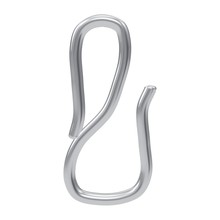
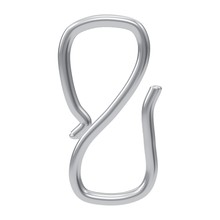
Add files via upload

Changed region(s): [[0.2455, 0.0545, 0.7364, 0.9545], [0.4364, 0.0818, 0.4636, 0.1091]]

diff --git a/index.html b/index.html
@@ -4460,7 +4460,8 @@ const C3D_PAGES = { cfg: 'configurateur-3d.html?apercu=1', m3d: 'editeur-perles.
 let MODELES_3D=[], RUPTURES_3D=[], COMPOS_3D=[], LIENS_3D={};
 async function renderModelesProposes(){
   const el=document.getElementById('c3-proposes'); if(!el) return;
-  try{ const {data,error}=await SB.from('modeles_3d').select('slug,nom,publie').order('nom'); if(error) throw error; MODELES_3D=data||[];
+  try{ if(OFFRES_CFG===null) await chargerOffresCfg();
+    const {data,error}=await SB.from('modeles_3d').select('slug,nom,publie,donnees').order('nom'); if(error) throw error; MODELES_3D=data||[];
     const r=await SB.from('config').select('value').eq('key','configurateur_ruptures').maybeSingle(); let v=r.data?.value;
     if(typeof v==='string'){ try{ v=JSON.parse(v); }catch(e){ v=[]; } } RUPTURES_3D=Array.isArray(v)?v.map(String):[];
     { const lc=async k=>{ const r=await SB.from('config').select('value').eq('key',k).maybeSingle(); let w=r.data?.value; if(typeof w==='string'){ try{ w=JSON.parse(w); }catch(e){ w=null; } } return w; };
@@ -4508,26 +4509,26 @@ function rendreC3(){
   let corps='';
   if(C3_ONGLET==='breloques'){
     corps=`<p class="dim c3-aide">Les modèles 3D proposés au client, dans chaque parcours (breloque seule / bundle). Un modèle se publie dans 🧊 Modèles.</p>`
-      +(MODELES_3D.length?MODELES_3D.map(m=>c3Ligne(escA(m.nom||m.slug),c3Inter(vuM(m,'breloque'),`basculerModele('${escA(m.slug)}','breloque')`,'breloque seule')+c3Inter(vuM(m,'bundle'),`basculerModele('${escA(m.slug)}','bundle')`,'bundle + chaîne de sac'),{sous:m.publie?'':'non publié'})).join(''):'<p class="dim">Aucun modèle 3D enregistré (onglet 🧊 Modèles) : le configurateur montre les modèles d\'exemple.</p>')
+      +(MODELES_3D.length?MODELES_3D.map(m=>c3Ligne((nomsAff()['modele:'+m.slug]?`<b>${escA(nomsAff()['modele:'+m.slug])}</b> <span class="dim">(${escA(m.nom||m.slug)})</span>`:escA(m.nom||m.slug))+` <button class="btn btn-xs btn-ghost" title="Nom affiché aux clientes" onclick="renommerAffiche('modele:${escA(m.slug)}','${escA(String(m.nom||m.slug).replace(/'/g,'’'))}')">✎</button>`,c3Inter(vuM(m,'breloque'),`basculerModele('${escA(m.slug)}','breloque')`,'breloque seule')+c3Inter(vuM(m,'bundle'),`basculerModele('${escA(m.slug)}','bundle')`,'bundle + chaîne de sac'),{sous:m.publie?'':'non publié'})).join(''):'<p class="dim">Aucun modèle 3D enregistré (onglet 🧊 Modèles) : le configurateur montre les modèles d\'exemple.</p>')
       +(()=>{ // formes de la breloque chainmail = exactement celles du configurateur : croix, mini chains, tes compositions « breloque » (pas les chaînes, pas les BO)
           const ficheDe=f=>{ const r=LIENS_3D['forme:'+f]; const b=r&&BIJS.find(x=>x.ref===r); return b?nomFiche3(b)+' · '+b.ref+(b.collection?' — '+b.collection:''):'pas encore de fiche reliée'; };
           const cps=COMPOS_3D.filter(c=>c.usage==='breloque'&&c.statut!=='brouillon');
           const n3=c=>norm3(c.nom||''), estMC=c=>/mini ?cha/.test(n3(c));
           // tes compositions remplacent les formes d'origine (comme dans le configurateur) : croix pampille → plus de « Croix » seule, etc.
           const remplace={croix:cps.some(c=>/croix/.test(n3(c))||(c.motif||[]).some(e=>e&&e.f==='croix')),'mini-fleur-4':cps.some(c=>estMC(c)&&/fleur/.test(n3(c).replace(/mini ?cha\w*/,''))&&!/mini fleur/.test(n3(c).replace(/mini ?cha\w*/,''))),'mini-intercalaire-4':cps.some(c=>estMC(c)&&/intercal|altern/.test(n3(c)))};
-          const L=[...FORMES_3D.filter(([f])=>!remplace[f]).map(([f,nom])=>({k:'forme:'+f,nom,grp:/^mini/.test(f)?'Mini chain':'Formes',sous:ficheDe(f)})),...cps.map(c=>({k:'forme:compo-'+c.id,nom:c.nom,grp:estMC(c)?'Mini chain':'Formes',sous:ficheDe('compo-'+c.id)}))];
+          const L=[...FORMES_3D.filter(([f])=>!remplace[f]).map(([f,nom])=>({rk:LIENS_3D['forme:'+f]||'',k:'forme:'+f,nom,grp:/^mini/.test(f)?'Mini chain':'Formes',sous:ficheDe(f)})),...cps.map(c=>({rk:LIENS_3D['forme:compo-'+c.id]||'',k:'forme:compo-'+c.id,nom:c.nom,grp:estMC(c)?'Mini chain':'Formes',sous:ficheDe('compo-'+c.id)}))];
           return c3Liste('formes','⛓ Breloque chainmail · formes',L,{aide:'La croix, les mini chains et tes compositions « breloque » validées dans ⛓ Composer. Jamais les chaînes de sac ni les boucles d\'oreilles.'}); })()
       +`<p class="dim c3-aide">La fiche produit de chaque modèle / forme se relie dans 🔗 Références › Produits ↔ modèles 3D.</p>`;
   } else if(C3_ONGLET==='idees'){
-    const L=[...D.fam.flatMap(f=>[f.base,...f.vars].map(b=>({cat:b.collection||f.base.collection||'',k:'idee:'+b.id,nom:b===f.base?(b.variante||'fiche de base'):(b.variante||b.nom||b.ref),sous:b.ref,grp:f.base.nom||f.base.ref,extra:c3Lien(b.id)}))),
+    const L=[...D.fam.flatMap(f=>[f.base,...f.vars].map(b=>({rk:b.ref,cat:b.collection||f.base.collection||'',k:'idee:'+b.id,nom:b===f.base?(b.variante||'fiche de base'):(b.variante||b.nom||b.ref),sous:b.ref,grp:f.base.nom||f.base.ref,extra:c3Lien(b.id)}))),
       ...altI.map(a=>({k:'idee:alt:'+a.id,nom:a.nom,sous:'alternative',grp:'⭐ Alternatives (créées dans le configurateur)',extra:c3Lien('alt:'+a.id)+`<button class="btn btn-xs btn-ghost" title="Renommer" onclick="renommerAlternative('${escA(a.id)}')">✎</button>`}))];
     corps=c3Liste('idees','💡 Idées de couleurs proposées',L,{aide:'Sous chaque modèle, les variantes de couleurs proposées en vignettes. Une idée retirée reste reconnue si la cliente choisit ces couleurs.'});
   } else if(C3_ONGLET==='bundles'){
-    const L=[...D.lotsBase.flatMap(b=>[b,...D.varsLot(b)].map(x=>({cat:x.collection||b.collection||'',k:'idee:'+x.id,nom:x===b?(b.variante?'Lot · '+b.variante:'Lot de base'):'Variante · '+(x.variante||x.nom||x.ref),sous:x.ref,grp:b.nom||b.ref,extra:c3Lien(x.id,1)}))),
+    const L=[...D.lotsBase.flatMap(b=>[b,...D.varsLot(b)].map(x=>({rk:x.ref,cat:x.collection||b.collection||'',k:'idee:'+x.id,nom:x===b?(b.variante?'Lot · '+b.variante:'Lot de base'):'Variante · '+(x.variante||x.nom||x.ref),sous:x.ref,grp:b.nom||b.ref,extra:c3Lien(x.id,1)}))),
       ...altB.map(a=>({k:'idee:alt:'+a.id,nom:a.nom,sous:'créé dans le configurateur',grp:'⭐ Bundles créés dans le configurateur',extra:c3Lien('alt:'+a.id,1)+`<button class="btn btn-xs btn-ghost" title="Renommer" onclick="renommerAlternative('${escA(a.id)}')">✎</button>`}))];
     corps=c3Liste('bundles','🎁 Bundles tout prêts proposés',L,{aide:'Les porte-clés tout prêts (lots) et chacune de leurs variantes, en vignettes en haut de la page bundle.'});
   } else if(C3_ONGLET==='chaines'){
-    const L=D.chaines.flatMap(b=>[b,...D.varsCh(b)].filter(D.proposee).map(x=>({cat:x.collection||b.collection||'',k:'idee:'+x.id,nom:x===b?'Fiche de base':(x.variante||x.nom||x.ref),sous:x.ref,grp:nomFiche3(b)})));
+    const L=D.chaines.flatMap(b=>[b,...D.varsCh(b)].filter(D.proposee).map(x=>({rk:x.ref,cat:x.collection||b.collection||'',k:'idee:'+x.id,nom:x===b?'Fiche de base':(x.variante||x.nom||x.ref),sous:x.ref,grp:nomFiche3(b)})));
     corps=c3Ligne('<b>3e parcours « Chaîne de sac »</b>',c3Inter(RUPTURES_3D.includes('activer:chaine'),'basculerChaine()'))
       +c3Liste('chaines','⛓ Chaînes de sac proposées',L,{aide:'Le motif 3D vient du nom de la fiche (8 mm, 10 mm, fleur, alternative). Les variantes collier / choker ne sont pas proposées.'});
   } else corps=renderOffres();
@@ -4539,12 +4540,20 @@ function rendreC3(){
 function c3Liste(id,titre,items,{aide='',vide='Rien d\'affiché pour l\'instant : ajoute une référence ci-dessous.'}={}){
   const vis=items.filter(x=>c3Vu(x.k)&&c3Filtre([x.nom,x.sous,x.grp].join(' '))), cach=items.filter(x=>!c3Vu(x.k));
   const groupes=[...new Set(vis.map(x=>x.grp||''))];
-  const ligne=x=>`<div class="c3l-r"><span class="nom">${escA(x.nom)}${x.sous?` <span class="dim">· ${escA(x.sous)}</span>`:''}${x.cat?` <span class="badge" style="font-size:10px">${escA(x.cat)}</span>`:''}</span>${x.extra||''}<button class="btn btn-xs btn-ghost" title="Ne plus proposer dans le configurateur" onclick="basculerCle('${escA(x.k)}')">🚫 Retirer</button></div>`;
+  const ligne=x=>`<div class="c3l-r"><span class="nom">${x.rk&&nomsAff()[x.rk]?`<b>${escA(nomsAff()[x.rk])}</b> <span class="dim">(${escA(x.nom)})</span>`:escA(x.nom)}${x.sous?` <span class="dim">· ${escA(x.sous)}</span>`:''}${x.cat?` <span class="badge" style="font-size:10px">${escA(x.cat)}</span>`:''}</span>${x.rk?`<button class="btn btn-xs btn-ghost" title="Nom affiché aux clientes (la référence et les liens ne changent pas)" onclick="renommerAffiche('${escA(x.rk)}','${escA(String(x.nom).replace(/'/g,'’'))}')">✎</button>`:''}${x.extra||''}<button class="btn btn-xs btn-ghost" title="Ne plus proposer dans le configurateur" onclick="basculerCle('${escA(x.k)}')">🚫 Retirer</button></div>`;
   const opts=[...new Set(cach.map(x=>x.grp||''))].map(g=>`<optgroup label="${escA(g||'Autres')}">${cach.filter(x=>(x.grp||'')===g).map(x=>`<option value="${escA(x.k)}">${escA(x.nom)}${x.sous?' · '+escA(x.sous):''}${x.cat?' — '+escA(x.cat):''}</option>`).join('')}</optgroup>`).join('');
   return `<div class="c3l-sec"><h3>${titre} <span class="dim">${vis.length} affiché${vis.length>1?'s':''}${cach.length?' · '+cach.length+' masqué'+(cach.length>1?'s':''):''}</span></h3>${aide?`<p class="dim c3-aide" style="margin:0 0 4px">${aide}</p>`:''}
     ${groupes.map(g=>(g?`<div class="c3l-g">${escA(g)}</div>`:'')+vis.filter(x=>(x.grp||'')===g).map(ligne).join('')).join('')||`<p class="dim" style="font-size:12px;margin:4px 0">${vide}</p>`}
     <div class="c3l-aj">${cach.length?`<select id="aj-${id}"><option value="">＋ Afficher une référence masquée ou nouvelle…</option>${opts}</select><button class="btn btn-xs btn-p" onclick="const v=document.getElementById('aj-${id}').value;if(v)basculerCle(v)">Afficher</button>`:'<span class="dim" style="font-size:12px">Toutes les références sont affichées.</span>'}
       <button class="btn btn-xs btn-ghost" title="Relire les fiches (nouveaux produits créés ailleurs)" onclick="c3Actualiser()">↻ Actualiser les fiches</button></div></div>`;
+}
+/* ✎ noms affichés aux clientes : config « configurateur_offres ».noms = { <réf. de la fiche ou du matériau> | modele:<slug> | acc:<id du porte-clés> : nom } */
+const nomsAff=()=>OFFRES_CFG?.noms||{};
+async function renommerAffiche(cle,defaut){
+  if(OFFRES_CFG===null) await chargerOffresCfg();
+  const v=prompt('Nom affiché aux clientes (vide = nom d\'origine « '+defaut+' ») :',nomsAff()[cle]||''); if(v===null) return;
+  const noms={...nomsAff()}; if(v.trim()) noms[cle]=v.trim(); else delete noms[cle];
+  const cfg={...(OFFRES_CFG||{}),noms}; await sbUpsertConfig('configurateur_offres',cfg); OFFRES_CFG=cfg; toast(v.trim()?'Nom affiché : « '+v.trim()+' » ✓':'Nom d\'origine remis','ok'); renderModelesProposes(); rafraichirApercu();
 }
 async function basculerCle(k){
   const rup=RUPTURES_3D.includes(k)?RUPTURES_3D.filter(x=>x!==k):[...RUPTURES_3D,k];
@@ -4578,6 +4587,13 @@ function renderOffres(){
     ${carte('rond','🔘 Fermoir rond offert',`Offert dès ${num('rond','min',48)} breloques à ${num('rond','prixMin')} € ou plus · remise de ${num('rond','remise')} €`,'porte-clés')}
     ${carte('mousqueton','🪝 Mousqueton offert',`Offert dès ${num('mousqueton','minBundles',48)} porte-clés (n'importe lesquels) montés dessus et ${num('mousqueton','minAchat')} € de breloques (porte-clés non compris) · remise ${num('mousqueton','remise')} € <span class="dim">(vide = offert)</span>`,'porte-clés, non cumulable avec le rond')}
     ${carte('lettres','🔤 Breloque lettre offerte',`Une breloque lettre offerte dès ${num('lettres','min',48)} breloques à ${num('lettres','prixMin')} € ou plus`,'une par commande, cumulable')}
+    <div class="of-carte"><div class="of-hd"><b>✏ Noms affichés aux clientes</b></div>
+      <div class="of-phrase" style="display:grid;gap:4px">${(()=>{ const acc=[], vus=new Set(); MODELES_3D.forEach(m=>(m.donnees?.options||[]).filter(o=>o.type==='accroche').forEach(o=>(o.choix||[]).forEach(c=>{ if(!vus.has(c.id)){ vus.add(c.id); acc.push(c); } })));
+        const fer=MATS.filter(m=>/fermoir|mousqueton|manille|ressort/i.test([m.designation,m.variante,m.sc].join(' ')));
+        const ligne=(cle,nom,sous)=>`<div style="display:flex;gap:6px;align-items:center"><span style="flex:1">${nomsAff()[cle]?`<b>${escA(nomsAff()[cle])}</b> <span class="dim">(${escA(nom)})</span>`:escA(nom)} <span class="dim">· ${escA(sous)}</span></span><button class="btn btn-xs btn-ghost" onclick="renommerAffiche('${escA(cle)}','${escA(String(nom).replace(/'/g,'’'))}')">✎</button></div>`;
+        return (acc.length?'<div class="dim" style="font-weight:700">Porte-clés (choix du bundle)</div>'+acc.map(c=>ligne('acc:'+c.id,c.libelle||c.id,'porte-clés')).join(''):'')
+          +(fer.length?'<div class="dim" style="font-weight:700;margin-top:4px">Fermoirs et porte-clés (matériaux)</div>'+fer.map(m=>ligne(m.ref,[m.designation,m.variante].filter(Boolean).join(' · '),m.ref)).join(''):''); })()}</div>
+      <div class="of-pied"><span class="dim">Seul le nom vu par la cliente change : la référence, le stock et les liens restent les mêmes. Les breloques, idées, bundles, chaînes et formes se renomment avec ✎ dans leur onglet.</span></div></div>
     <div class="of-carte"><div class="of-hd"><b>🎨 Fond de l'aperçu 3D</b></div>
       <div class="of-phrase">${(()=>{ const ap=OFFRES_CFG?.apparence||{}, f=({jaune:'creme'})[ap.fond]||ap.fond||'violet', op=+ap.logo===100?100:30;
         return [['creme','#fff7c6','#3c114b','Crème · logo violet'],['violet','#3c114b','#fff7c6','Violet · logo jaune'],['vert','#cbc67c','#a7365b','Vert · logo framboise'],['rose','#a7365b','#fff7c6','Framboise · logo jaune']]

diff --git a/configurateur/configurateur-3d.html b/configurateur/configurateur-3d.html
@@ -506,7 +506,7 @@ import {
   correspondCategorie, texteCatalogue, ordreModeles, chargerRuptures, appliquerRuptures,
   chargerLiens, appliquerLiens, relierModele, chargerMateriauxParRefs,
   chargerFichesConfig, chargerOffres, definirLiensFormes, lienModele, appliquerLienModele, formeLiee, composerCompos, definirFichesConfig, ficheCfg, refsCouleurFiche, famillesFiche,
-} from './bead-core.js?v=a5160576';
+} from './bead-core.js?v=d2bac14c';
 import { SUPABASE_URL, SUPABASE_ANON_KEY, supabaseConfigure, INFOS_ATELIER, PANIER_SHOPIFY } from './perles-config.js?v=e8e44d9a';
 
 const $ = s => document.querySelector(s);
@@ -595,6 +595,11 @@ if (sb) {
   }
 }
 definirLiensFixes(liens);
+/* noms affichés aux clientes (app › Conception 3D : ✎ sur chaque ligne) : seul le nom change, jamais la référence ni le lien */
+const NOMS = (offresCfg?.noms && typeof offresCfg.noms === 'object') ? offresCfg.noms : {};
+const nomAffiche = (cle, defaut) => (NOMS[cle] && String(NOMS[cle]).trim()) || defaut;
+catalogue = catalogue.map(c => NOMS[c.ref] ? { ...c, nom: NOMS[c.ref], nomOrigine: c.nom } : c);
+fermoirs = fermoirs.map(f => NOMS[f.ref] ? { ...f, nomClient: NOMS[f.ref], nom: NOMS[f.ref] } : f);
 if (!modeles.length) modeles = [modeleDemo(), modeleAreteDemo(), modeleLettresDemo(), modeleArgileDemo(), modeleChainmailDemo(), modelePerleCultureDemo()];
 // 3e parcours « Chaîne de sac » : allumé dans l'app (Conception 3D) ; modèle d'exemple tant que tu n'en as pas publié
 const CHAINE_ACTIVE = ruptures.includes('activer:chaine');
@@ -617,6 +622,8 @@ const aDesEtoiles = catalogue.some(c => texteCatalogue(c).includes('etoile'));
 modeles.sort(ordreModeles);                                    // le petit poisson en premier
 modeles = modeles.map(m0 => {
   const m = resoudreDefauts(relierModele(m0, liens), catalogue, fermoirs);
+  if (NOMS['modele:' + m.slug]) m.nom = NOMS['modele:' + m.slug];
+  for (const o of m.options || []) if (o.type === 'accroche') (o.choix || []).forEach(c => { if (NOMS['acc:' + c.id]) c.libelle = NOMS['acc:' + c.id]; });
   // breloque lettre : l'étoile du milieu est comprise dans le prix de la fiche « 2 mots » (on choisit sa couleur, sans supplément)
   if (estLettres(m)) for (const o of m.options || []) if (o.type === 'perle' && o.place === 'texte') { o.supplement = 0; (o.choix || []).forEach(c => { if (c && typeof c === 'object') c.supplement = 0; }); }
   // étoile dans la bouche proposée par défaut si le modèle publié ne la prévoit pas
@@ -953,7 +960,7 @@ function choisirParcours(p, garder = false) {
   $('#page').scrollIntoView({ behavior: 'smooth', block: 'start' });
 }
 document.querySelectorAll('[data-parcours]').forEach(b => b.addEventListener('click', () => choisirParcours(b.dataset.parcours)));
-$('#btParcours').addEventListener('click', () => { etat.parcours = null; etat.breloques = [brel()]; etat.actif = 0; etat.accroche = null; rendre3D({ cadrer: true }); toutRendre(); });
+$('#btParcours').addEventListener('click', () => { etat.parcours = null; etat.breloques = [brel()]; etat.actif = 0; etat.accroche = null; etat.compos = [{ surChaine: false }]; etat.mousq = false; delete etat.breloques[0].compo; rendre3D({ cadrer: true }); toutRendre(); });
 $('#btVersBundle').addEventListener('click', () => choisirParcours('bundle'));
 $('#btVersChaine').addEventListener('click', () => choisirParcours('chaine', true));
 $('#btAltBundle').addEventListener('click', () => enregistrerAlternative(true));
@@ -1228,7 +1235,7 @@ function calculerIdees(m) {
     const z = (m.zones || []).find(x => x.id === m.bijZone);
     return z ? couleursProposees(z, catalogue, parties).filter(c => c.enStock !== false && bijoux.some(b => b.ref === c.ref)).map(c => {
       const f = bijoux.find(b => b.ref === c.ref);
-      return { fiche: f, nom: [f.nom, f.variante].filter(Boolean).join(' · '), prix: f.pv != null && f.pv !== '' ? +f.pv : null,
+      return { fiche: f, nom: nomAffiche(f.ref, [f.nom, f.variante].filter(Boolean).join(' · ')), prix: f.pv != null && f.pv !== '' ? +f.pv : null,
         breloque: { ...nouvelleBreloque(m.slug), couleurs: validerConfiguration(m, catalogue, { ...nouvelleBreloque(m.slug).couleurs, [m.bijZone]: c.ref }, parties) } };
     }) : [];
   }
@@ -1237,7 +1244,7 @@ function calculerIdees(m) {
   return [...famillesFiche(row, bijoux).map(f => {                                    // fiches bijoux et compositions
     const c = couleursDeFiche(m, row, f); if (!c) return null;
     if (f.id !== row.id && memeCouleurs(c, classique)) return null;                // variante qu'on ne sait pas encore dessiner
-    return { fiche: f, nom: f.variante || (f.id === row.id ? 'Classique' : f.nom), prix: f.pv != null && f.pv !== '' ? +f.pv : (row.pv != null ? +row.pv : null),
+    return { fiche: f, nom: nomAffiche(f.ref, f.variante || (f.id === row.id ? 'Classique' : f.nom)), prix: f.pv != null && f.pv !== '' ? +f.pv : (row.pv != null ? +row.pv : null),
       breloque: { ...nouvelleBreloque(m.slug), couleurs: c } };
   }).filter(Boolean), ...alternativesDe(m, row)];
 }
@@ -1290,7 +1297,7 @@ function ideesBundle() {
   const pc = bijoux.filter(b => okLot(b) && /porte.?cl/i.test(normNom(colDe(b))));
   return (pc.length ? pc : bijoux.filter(okLot)).map(f => {
     const cfg = ficheCfg(f.id), refs = cfg.refs || [], par = f.parent_id && parId.get(f.parent_id);
-    const nom = par ? [par.nom, f.variante].filter(Boolean).join(' · ') : (f.nom || f.variante || f.ref);   // une variante de lot : « Mix'n Match · rose »
+    const nom = nomAffiche(f.ref, par ? [par.nom, f.variante].filter(Boolean).join(' · ') : (f.nom || f.variante || f.ref));   // une variante de lot : « Mix'n Match · rose » (ou le nom affiché choisi)
     const aRef = r => refs.includes(r) || refs.some(x => baseRef(x) === baseRef(r));
     const acc = accroches.choix.filter(c => c.pieces.length && c.pieces.every(aRef)).sort((a, b) => b.pieces.length - a.pieces.length)[0] || accroches.choix[0];
     const brs = [], sans = [];
@@ -1699,7 +1706,9 @@ function restaurer(c) {
   });
   etat.parcours = c.parcours === 'bundle' || etat.breloques.length > 1 || c.accroche ? 'bundle' : 'breloque';
   etat.accroche = c.accroche?.id && accroches?.choix.some(x => x.id === c.accroche.id) ? c.accroche.id : (etat.parcours === 'bundle' ? (choixOffre() || accroches?.choix[0])?.id || null : null);
-  etat.compos = Array.isArray(c.compos) && c.compos.length ? c.compos.map((x, k) => ({ ...(k ? { accroche: x.accroche } : {}), surChaine: !!x.surChaine })) : [{ surChaine: false }];
+  // plusieurs porte-clés repris seulement si la composition enregistrée les avait montés « sur un mousqueton » ; sinon on repart d'un seul porte-clés
+  etat.compos = c.mousqueton && Array.isArray(c.compos) && c.compos.length ? c.compos.map((x, k) => ({ ...(k ? { accroche: x.accroche } : {}), surChaine: !!x.surChaine })) : [{ surChaine: !!c.compos?.[0]?.surChaine }];
+  if (!c.mousqueton) etat.breloques.forEach(b => { delete b.compo; });
   etat.mousq = !!c.mousqueton; etat.offreChoix = c.offreChoix || null;
   etat.actif = Math.min(c.actif || 0, etat.breloques.length - 1);
   rendre3D({ cadrer: true }); toutRendre();
@@ -1915,7 +1924,7 @@ async function reprendre(cle) {
 }
 function recommencer() {
   try { localStorage.removeItem('bn-perso-brouillon'); } catch {}
-  etat.parcours = null; etat.breloques = [breloqueOuverture(modeles[0].slug)]; etat.actif = 0; etat.accroche = null;
+  etat.parcours = null; etat.breloques = [breloqueOuverture(modeles[0].slug)]; etat.actif = 0; etat.accroche = null; etat.compos = [{ surChaine: false }]; etat.mousq = false; etat.offreChoix = null;
   $('#reprise').hidden = true; rendre3D({ cadrer: true }); toutRendre();
 }
 

diff --git a/configurateur/bead-core.js b/configurateur/bead-core.js
@@ -1674,8 +1674,10 @@ function geosFermoirS(H) {
   const B = [[-0.23, 0.33], [-0.31, 0.21], [-0.31, 0.11], [-0.24, 0.035], [-0.04, 0.005], [0.18, 0.015], [0.33, 0.06], [0.40, 0.16], [0.38, 0.33], [0.36, 0.52], [0.43, 0.63]];
   const sym = ([y, h]) => [-y, 1 - h];
   // boucle du haut : même forme, tournée, plus serrée (largeur × 0,62) : sa jambe passe contre la diagonale (fermée) et son bout s'écarte vers l'extérieur comme celui du bas
-  const haut = B.map(sym).reverse().map(([y, h]) => [y * 0.62, h]);
-  const P = [...haut, [0.04, 0.51], ...B];
+  // boucle du haut : exactement la boucle du bas tournée d'un demi-tour (même taille, symétrique) ; seule sa jambe revient
+  // contre la diagonale pour fermer, et son petit bout ressort vers l'extérieur
+  const haut = B.map(sym).reverse();                                     // [bout, jambe…, haut de la boucle…, départ de la diagonale]
+  const P = [[-0.31, 0.37], [-0.21, 0.44], [-0.31, 0.53], ...haut.slice(2), [0.04, 0.51], ...B];
   const c = new THREE.CatmullRomCurve3(P.map(([y, h]) => new THREE.Vector3(0, -y * W, -h * H)), false, 'centripetal');   // -y : vu comme sur la photo
   const g = [new THREE.TubeGeometry(c, 260, r, 10, false)];
   for (const [y, h] of [P[0], P[P.length - 1]]) { const e = new THREE.SphereGeometry(r, 10, 8); e.scale(1, 1, 0.6); e.translate(0, -y * W, -h * H); g.push(e); }

diff --git a/configurateur/commandes-perso.html b/configurateur/commandes-perso.html
@@ -114,7 +114,7 @@ td.ref { font: 600 9.5pt var(--f-titre); white-space: nowrap; }
 
 <script type="module">
 import { lignesCommande, lignesCommandeBundle, construireLettres, estLettres, listerDemandes, majDemande, chargerModeleBoutique, chargerCatalogueBoutique,
-         chargerFermoirsBoutique, resoudreDefauts, modeleDemo, chargerBijouxBoutique, bijouBreloque, completerCatalogue, chargerLiens, definirLiensFormes, appliquerLienModele } from './bead-core.js?v=a5160576';
+         chargerFermoirsBoutique, resoudreDefauts, modeleDemo, chargerBijouxBoutique, bijouBreloque, completerCatalogue, chargerLiens, definirLiensFormes, appliquerLienModele } from './bead-core.js?v=d2bac14c';
 import { SUPABASE_URL, SUPABASE_ANON_KEY, INFOS_ATELIER } from './perles-config.js?v=e8e44d9a';
 const raisonConnexion = e => /invalid login/i.test(e.message) ? 'e-mail ou mot de passe incorrect'
   : /not confirmed/i.test(e.message) ? 'adresse e-mail pas encore confirmée (Supabase › Authentication › Users)'

diff --git a/configurateur/compositeur-chainmail.html b/configurateur/compositeur-chainmail.html
@@ -223,7 +223,7 @@ aside > *, .etape .corps > *, .seq-l, .seq-l .t { min-width: 0; }
 <script type="module">
 import { ScenePerles, cleFixe, fermoirDepuisMateriau, assemblerComposition, decompteComposition, definirCompositions, elementChainmail, nomElementChainmail, estCorpsChainmail,
   elementDepuisNom, piecesComposition, connecteurEntre, modeleChaineSacDemo, modeleChainmailDemo, catalogueChaineDepuisBijoux, catalogueChainmailDepuisBijoux,
-  definirLiensFormes, NOMS_CHAINE, FORMES_CHAINMAIL, CATALOGUE_DEMO, formeChaine, estBrouillon, pampilleIntegree } from './bead-core.js?v=a5160576';
+  definirLiensFormes, NOMS_CHAINE, FORMES_CHAINMAIL, CATALOGUE_DEMO, formeChaine, estBrouillon, pampilleIntegree } from './bead-core.js?v=d2bac14c';
 import { SUPABASE_URL, SUPABASE_ANON_KEY, supabaseConfigure } from './perles-config.js?v=e8e44d9a';
 
 const $ = s => document.querySelector(s);

diff --git a/configurateur/references-configurateur.html b/configurateur/references-configurateur.html
@@ -92,7 +92,7 @@ import {
   completerCatalogue, definirLiensFormes, catalogueChainmailDepuisBijoux, catalogueChaineDepuisBijoux, NOMS_CHAINE, completerModeleChainmail, modeleChaineSacDemo, estChaineSac, FORMES_CHAINMAIL, resoudreDefauts, couleursProposees, correspondCategorie, ordreModeles, estLettres, accrochesProposees,
   chargerLiens, enregistrerLiens, estExemple, exemplesParRef, apercuArgile, apercuChainmail, baseRef,
   appliquerLiens, relierModele, appliquerLienModele, definirLiensFixes, cleFixe, refFixe, catalogueDepuisMateriaux, perlesFixesDe, allureFixe, bijouBreloque, definirCompositions, elementDepuisNom,
-} from './bead-core.js?v=a5160576';
+} from './bead-core.js?v=d2bac14c';
 import { SUPABASE_URL, SUPABASE_ANON_KEY } from './perles-config.js?v=e8e44d9a';
 
 const $ = s => document.querySelector(s);

diff --git a/configurateur/editeur-perles.html b/configurateur/editeur-perles.html
@@ -560,7 +560,7 @@ import {
   couleursProposees, chargerCatalogueBoutique, affinerCouleursDepuisPhotos, resoudreDefauts, TAILLES_MOUSQUETON,
   FERMOIRS_DEMO, chargerFermoirsBoutique, prixConfiguration,
   genArete, PATRON_TETE_ARETE, estAccroche, modeleAreteDemo, modeleLettresDemo, modeleArgileDemo, modeleChainmailDemo, modelePerleCultureDemo, modeleChaineSacDemo, chargerModeleBoutique, listerModelesBoutique, enregistrerModeleBoutique,
-} from './bead-core.js?v=a5160576';
+} from './bead-core.js?v=d2bac14c';
 const raisonConnexion = e => /invalid login/i.test(e.message) ? 'e-mail ou mot de passe incorrect'
   : /not confirmed/i.test(e.message) ? 'adresse e-mail pas encore confirmée (Supabase › Authentication › Users)'
   : e.message;

diff --git a/configurateur/stock-configurateur.html b/configurateur/stock-configurateur.html
@@ -54,7 +54,7 @@ import {
   completerCatalogue, resoudreDefauts, couleursProposees, correspondCategorie, texteCatalogue, ordreModeles, bijouBreloque,
   chargerRuptures, enregistrerRuptures, apercuArgile, apercuChainmail, estLettres, accrochesProposees,
   chargerLiens, appliquerLiens, relierModele, chargerMateriauxParRefs,
-} from './bead-core.js?v=a5160576';
+} from './bead-core.js?v=d2bac14c';
 import { SUPABASE_URL, SUPABASE_ANON_KEY } from './perles-config.js?v=e8e44d9a';
 
 const $ = s => document.querySelector(s);
